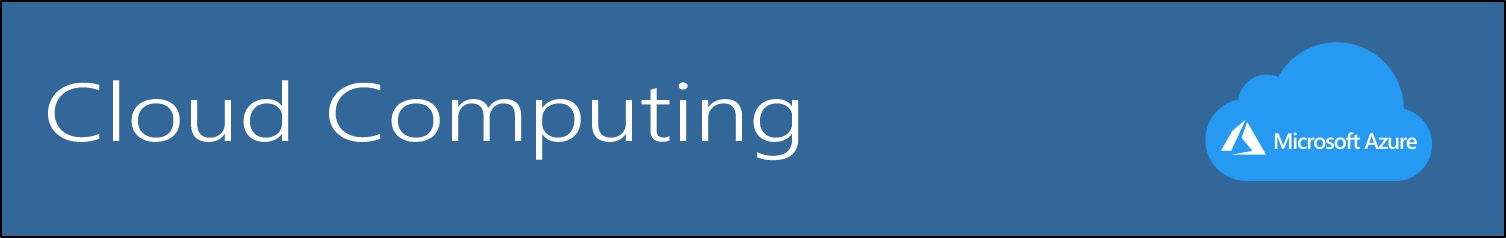
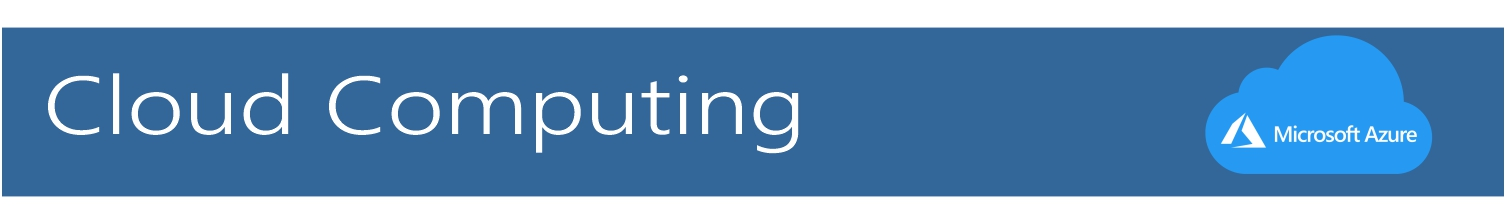
Agregando segundo concepto

diff --git a/README.md b/README.md
@@ -11,5 +11,15 @@ Ejemplos:
 * Huawei Cloud
 * AWS
 ***
-![Cloud Computing](img/c1.jpg)
+![Cloud Computing](img/c2.jpg)
 
+* Estos modelos definen los diferentes niveles de responsabilidad compartida de un proveedor de nube y un cliente en la nube. Existen tres diferentes modelos:
+
+#### IaaS (Infraestructura como servicio)
+* ***IaaS*** se reduce y escala verticalmente en función de la demanda, lo que le permite pagar solo por lo que usa. 
+
+#### PaaS (Plataforma como servicio)
+* Al igual que IaaS, ***PaaS*** incluye infraestructura (servidores, almacenamiento y redes), pero también incluye middleware, herramientas de desarrollo, servicios de inteligencia empresarial (BI), sistemas de administración de bases de datos, etc. 
+
+#### SaaS (Software como servicio)
+* ***SaaS*** ofrece una solución de software integral que se adquiere de un proveedor de servicios en la nube mediante un modelo de pago por uso. Usted alquila el uso de una aplicación para su organización y los usuarios se conectan a ella a través de Internet, normalmente con un explorador web. 
